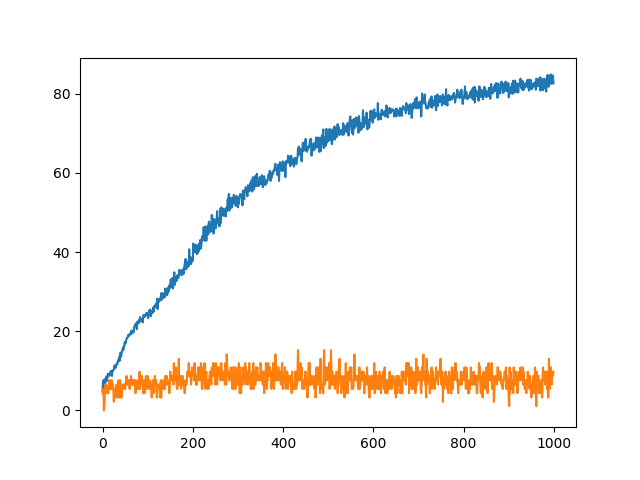
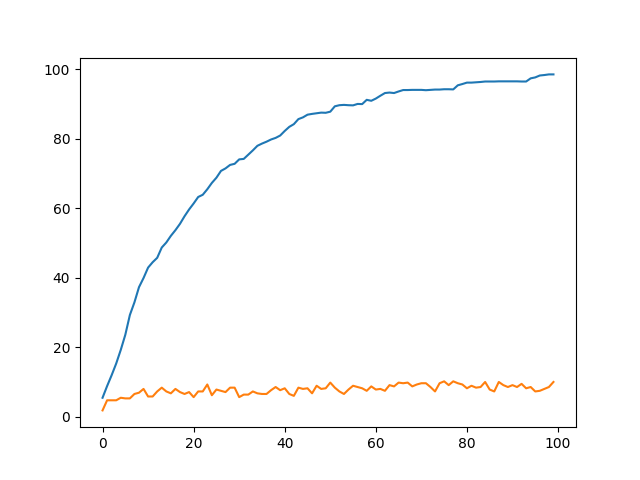
いえーい

diff --git a/model.py b/model.py
@@ -81,15 +81,25 @@ class Inception(nn.Module):
         )
 
         self.layer2 = Resblock(out_channels)
-
         self.layer3 = Resblock(out_channels)
         self.layer4 = Resblock(out_channels)
+        self.layer5 = Resblock(out_channels)
+        self.layer6 = Resblock(out_channels)
+        self.layer7 = Resblock(out_channels)
+        self.layer8 = Resblock(out_channels)
+        self.layer9 = Resblock(out_channels)
 
     def forward(self, x):
         out = self.layer1(x)
         out = self.layer2(out)
-        # out = self.layer3(out)
-        # out = self.layer4(out)
+        out = self.layer3(out)
+        out = self.layer4(out)
+        out = self.layer5(out)
+        out = self.layer6(out)
+        out = self.layer7(out)
+        out = self.layer8(out)
+        out = self.layer9(out)
+
         return out
 
 
@@ -104,11 +114,11 @@ class InceptionLSTM(nn.Module):
         self.last_conv = nn.Conv1d(out_channels, 46, kernel_size=3, padding=1)
         self.batch = batch
         self.out_channels = out_channels
-        self.linear_mnist = nn.Linear(9600, 200*47)
+        self.linear = nn.Linear(9600, 200*47)
 
     def forward(self, x):
-        x = self.linear_mnist(x)
-        x = nn.Dropout(0.5)(x)
+        x = self.linear(x)
+        # x = nn.Dropout(0.5)(x)
         x = x.reshape(-1, 200, 47)
         out = self.inception(x)
         # out = out.permute(1, 0, 2)
@@ -116,7 +126,7 @@ class InceptionLSTM(nn.Module):
         # out, _ = self.lstm2(out)
         # out = out.permute(1, 0, 2).reshape(-1, 64*46)
         out = self.last_conv(out)
-        out = nn.Dropout(0.5)(out)
+        # out = nn.Dropout(0.5)(out)
         out = nn.functional.avg_pool1d(out, kernel_size=out.size()[2])
         out = out.reshape(-1, 46)
         out = nn.Softmax(1)(out)

diff --git a/train.py b/train.py
@@ -14,27 +14,17 @@ import matplotlib.pyplot as plt
 import torchvision
 from word_processor3 import make_dataset, preprocess
 
-# # mnist,cifar10でちゃんとできるか試してみる
-# trainset = torchvision.datasets.CIFAR10(
-#     root="./data", train=True, download=True)
-# # 60000 samples
-# X_train, y_train = trainset.data[:2000].reshape(
-#     -1, 32*32*3), trainset.targets[:2000]
-# # 10000 samples
-# X_test, y_test = trainset.data[2000:2200].reshape(
-#     -1, 32*32*3), trainset.targets[2000:2200]
-
 # GPU,CPUの指定
 device = torch.device("cuda:0" if torch.cuda.is_available() else "cpu")
 
 # batch数
-batch = 16
+batch = 32
 
 # epoch数
-epochs = 1000
+epochs = 100
 
 # モデル
-model = InceptionLSTM(batch=batch, out_channels=3).to(device)
+model = InceptionLSTM(batch=batch, out_channels=128).to(device)
 
 # 最適化アルゴリズム
 optimizer = optim.Adam(params=model.parameters(), lr=0.0005)
@@ -50,7 +40,7 @@ X, y, _ = make_dataset()
 
 # trainとtestに分ける(クラスごとの比率は一定)
 X_train, X_test, y_train, y_test = train_test_split(
-    X, y, random_state=42, test_size=0.1, stratify=y, shuffle=True)
+    X, y, random_state=42, test_size=0.2, stratify=y, shuffle=True)
 
 # 前処理
 # 0.clipping

diff --git a/word_processor3.py b/word_processor3.py
@@ -59,7 +59,7 @@ def make_dataset():
     X = None
     labels = []
     for label, hiragana in enumerate(hiraganas):
-        for i in range(2):
+        for i in range(4):
             file_name = "easily_splittable_hiragana_data/" + \
                 hiragana + str(i+1)+".m4a"
             sound_arr, frame_rate = get_audio_numpy(file_name)
@@ -72,6 +72,20 @@ def make_dataset():
                     X = sound_arrs
                 else:
                     X = np.concatenate([X, sound_arrs])
+        for i in range(2):
+            file_name = "easily_splittable_hiragana_data/" + \
+                hiragana + "1"+str(i+1)+".m4a"
+            sound_arr, frame_rate = get_audio_numpy(file_name)
+            if frame_rate == 4410:
+                print(hiragana, i)
+            else:
+                sound_arrs = audio_split(sound_arr, frame_rate)
+                labels += [label]*sound_arrs.shape[0]
+                if X is None:
+                    X = sound_arrs
+                else:
+                    X = np.concatenate([X, sound_arrs])
+
     return X, labels, frame_rate
 
 
